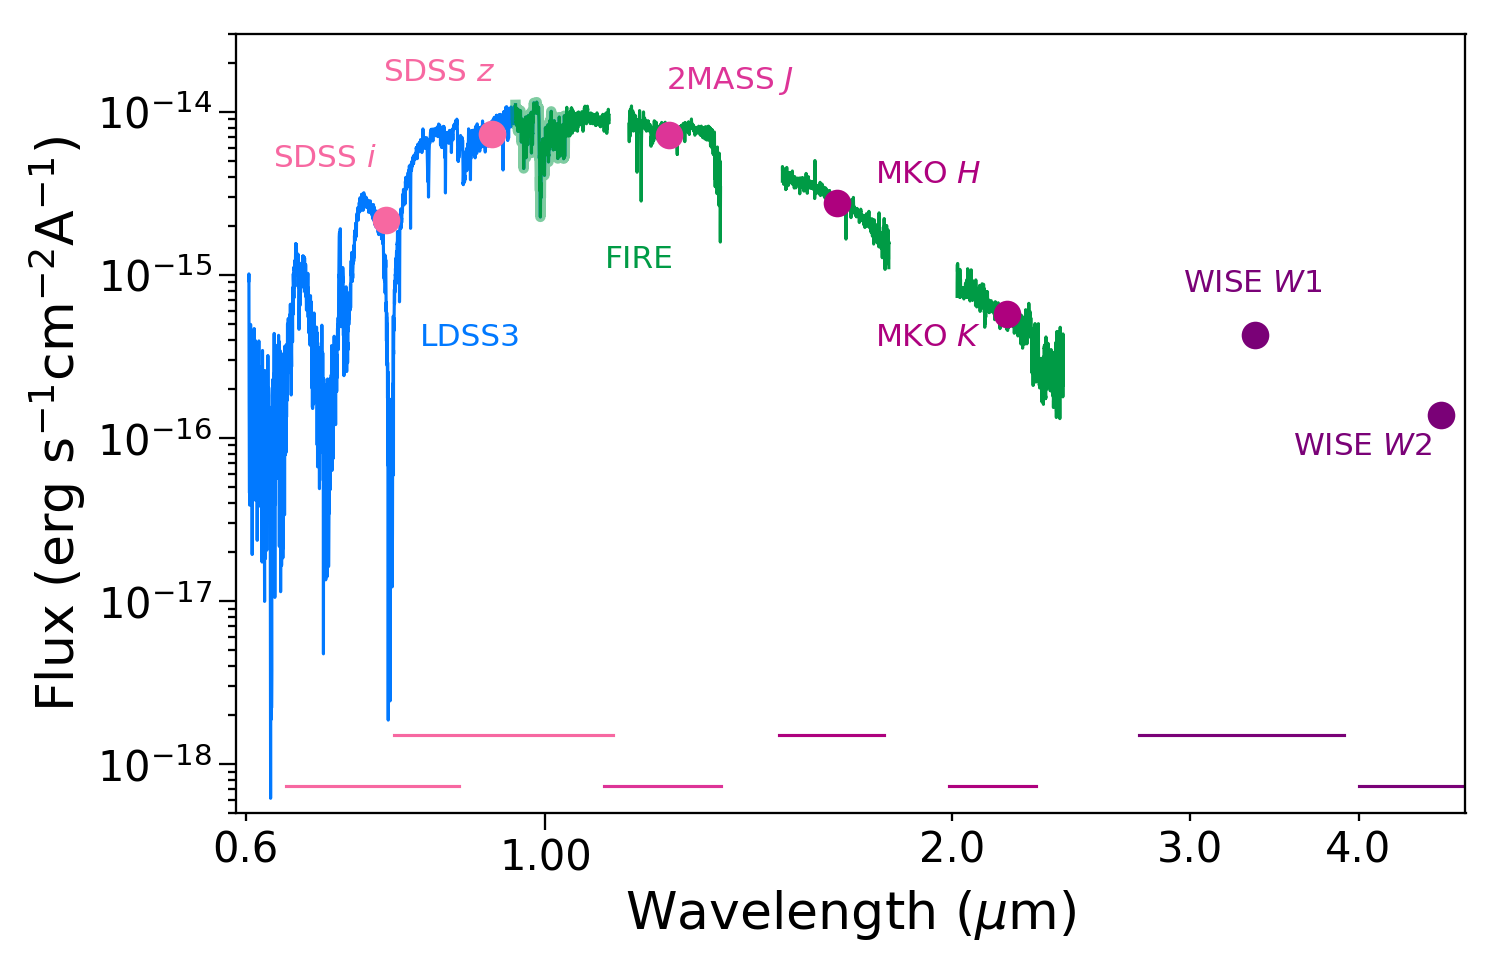
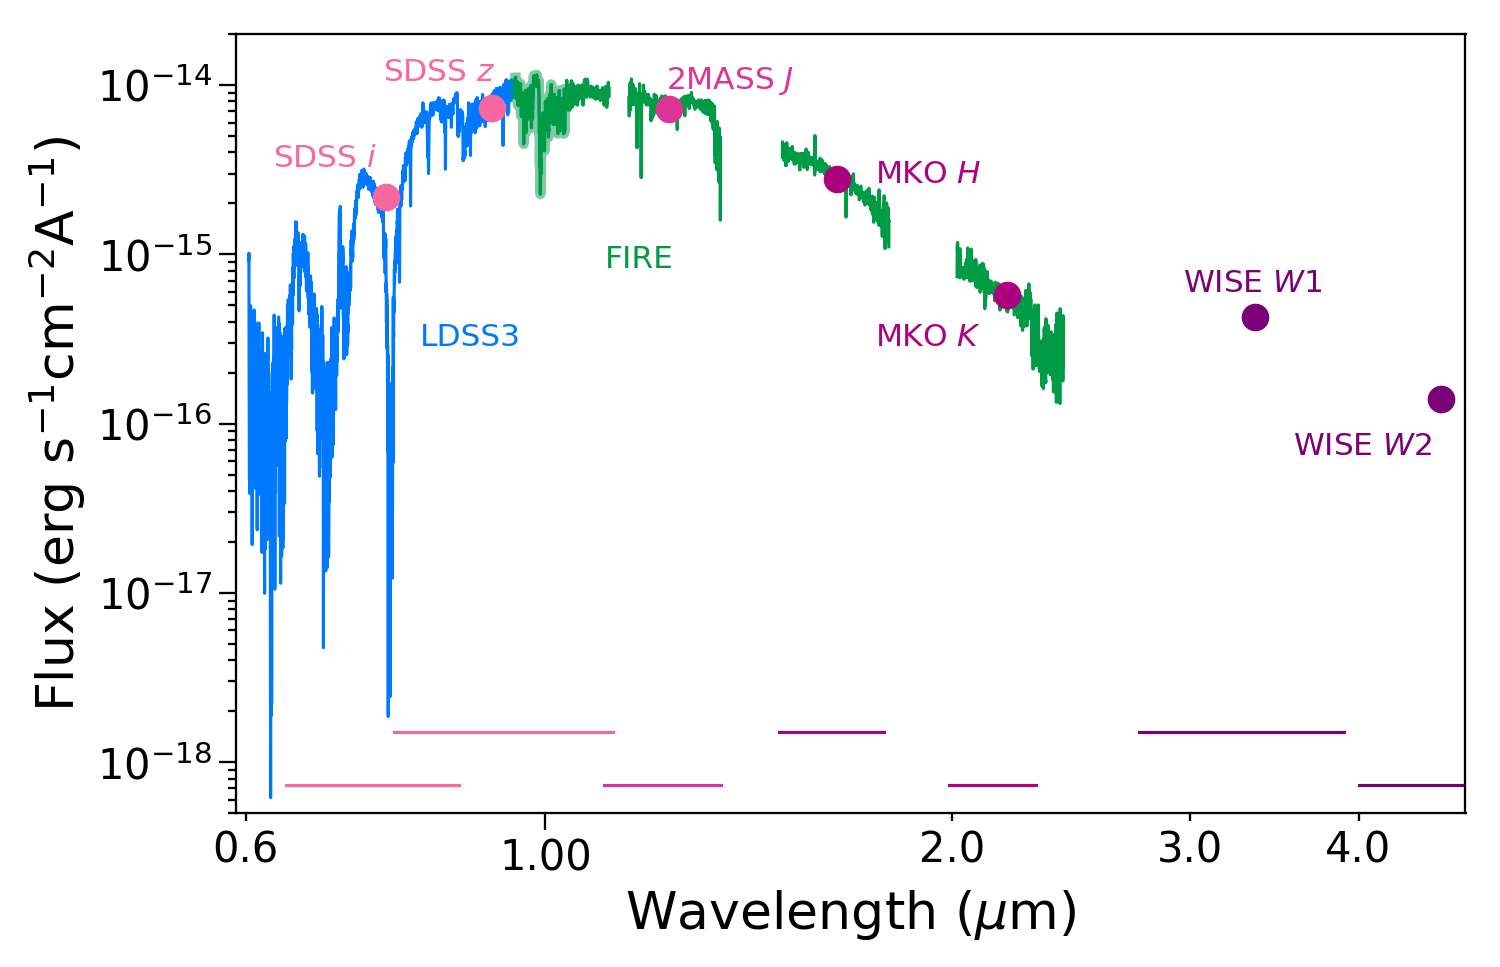
tightened y range

diff --git a/regimes.py b/regimes.py
@@ -59,7 +59,7 @@ ax1.scatter(df2['w'][6], df2['f'][6],  c='#7a0177', s=150, zorder=6)  # WISE_W2
 
 # ----- Set axes limits, reformat ticks -----------
 plt.xlim([0.59, 4.8])
-plt.ylim([5*10**(-19), 3*10**(-14)])
+plt.ylim([5*10**(-19), 2*10**(-14)])
 ax1.xaxis.set_major_formatter(ScalarFormatter())
 ax1.xaxis.set_minor_formatter(ScalarFormatter())
 ax1.xaxis.set_minor_locator(plt.FixedLocator([0.6, 2, 3, 4]))
